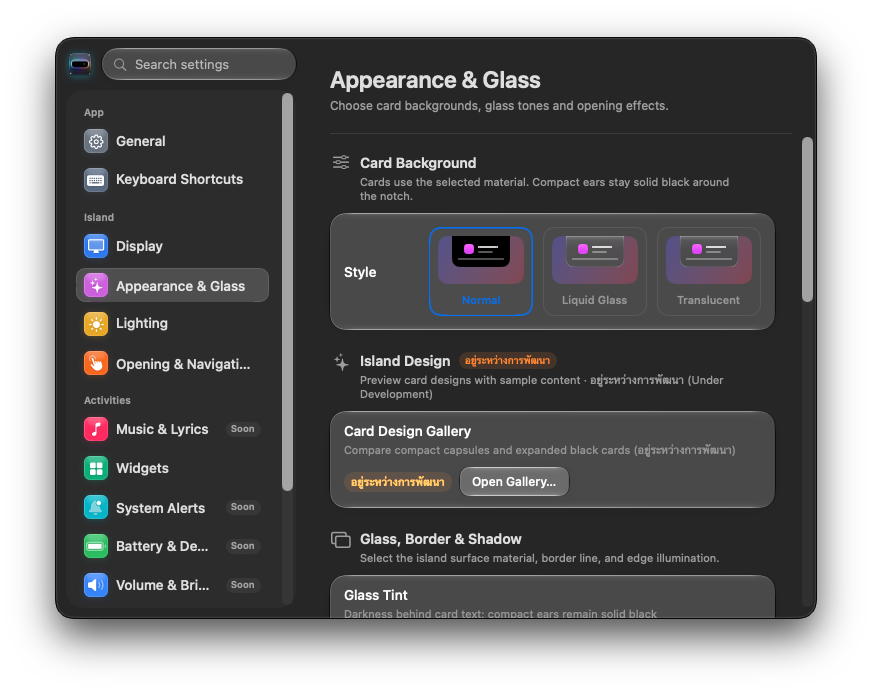
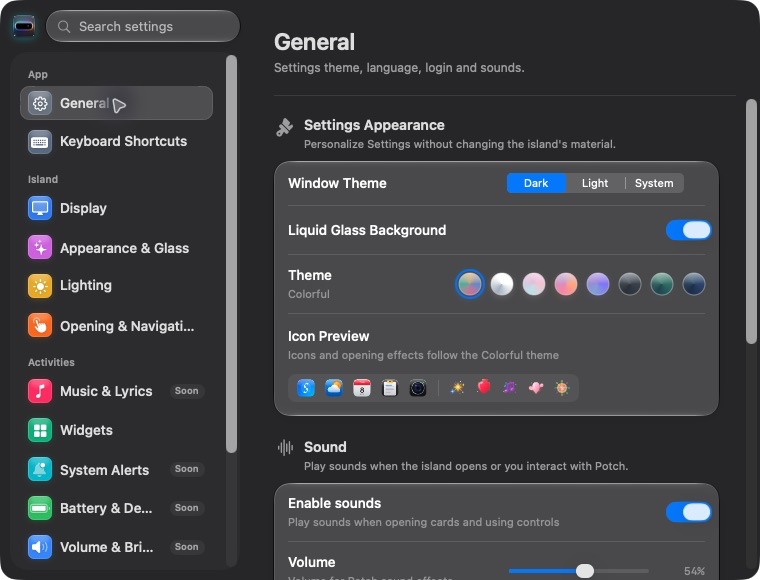
docs: replace showcase mockups with actual running app screenshots

diff --git a/README.md b/README.md
@@ -60,47 +60,49 @@ curl -fsSL https://raw.githubusercontent.com/izyouna/Potch.update/main/install.s
 
 ## 🖼 UI Showcase & Features
 
-### 🏝 1. Dynamic Notch & Mascot Companion ("Mochi")
-A sleek, obsidian island seamlessly hugging the physical MacBook display notch with fluid spring animations and an interactive mascot companion that looks and responds to your cursor in real time.
+These screenshots were captured directly from the running Potch app. The island is shown on an external display in floating mode; on a MacBook, it sits around the physical notch.
+
+### 🎵 1. Now Playing & Mascot Companion
+Your music, playback controls, and Mochi together in one compact island.
 
 <p align="center">
-  <img src="assets/potch_island_hero.png" alt="Potch Dynamic Notch & Companion" width="100%" />
+  <img src="assets/potch_island_hero.png" alt="Actual Potch app playing Just One More Drink -- Jazz Noir by Tom’s Jazz Lounge, with artwork, timeline, pause button, and Mochi" width="400" />
 </p>
 
-- **1px Overflow Edge Trick:** Perfectly conceals the physical boundary between display bezel and screen pixels.
-- **Concave Shoulders:** Elegant 12pt curved contours naturally blend the notch into the macOS menu bar.
-- **4 Dynamic Glow Modes:** Radiates real-time ambient lighting around the notch — Album Aura, Ambient White, Aurora Breathing, or Custom Hex Accent.
-- **Interactive Companion Mochi:** Adorable desk mascot with responsive eye-gaze tracking and custom outfits.
+*Captured during live playback of “Just One More Drink -- Jazz Noir” by Tom’s Jazz Lounge.*
+
+- **Live track information:** Album artwork, track title, artist, elapsed time, and remaining time from active playback.
+- **Playback controls:** Shuffle, previous track, play/pause, next track, and volume access.
+- **Mochi companion:** The mascot appears beside your music.
 
 ---
 
 ### 📱 2. Multi-Widget Ecosystem & Activity Cards
-Expand the island downwards with a single click or hover to reveal a suite of multi-purpose activity tools and playback controls in one unified liquid glass interface.
+Open Widgets to browse Potch’s tools from the island. The screenshot below shows the actual widget launcher, with Calendar and Weather visible and more tools available by scrolling.
 
 <p align="center">
-  <img src="assets/potch_widgets_expanded.png" alt="Potch Multi-Widget Ecosystem & Now Playing" width="100%" />
+  <img src="assets/potch_widgets_expanded.png" alt="Actual Potch Widgets launcher showing Calendar and Weather cards" width="440" />
 </p>
 
-- 🎵 **Now Playing & Lyrics:** High-fidelity album artwork, live 20-band FFT audio visualizer, scrub bar, and AirPlay output switcher for Apple Music and Spotify.
-- 📅 **Calendar & Schedule:** Full monthly overview with upcoming event timeline and instant calendar sync.
-- ☀ **Weather Forecast:** Atmospheric animations, hourly forecasts, and 5-day temperature range radar.
-- ⏱ **Focus Timer:** Minimalist Pomodoro and countdown timer with audible bell alerts.
-- 🪞 **Camera Mirror:** Front camera mirror with high-pass skin smoothing and screen rim light for low-light calls.
-- 🔋 **Battery & Devices:** Real-time battery status for your Mac, left/right AirPods, charging case, and wireless peripherals.
-- 📋 **Clipboard History:** Quick access to your last 20 copied clips with drag-and-drop instant paste.
+- 📅 **Calendar** and ☀ **Weather**
+- ⏱ **Timer** and 🪞 **Camera Mirror**
+- 🔋 **Battery & Devices** and 📋 **Clipboard History**
+- 🎶 **Song Recognition**, **Apps**, and **Activity**
 
 ---
 
 ### 🪟 3. Native Liquid Glass Settings
-Comprehensive settings panel spanning 12 distinct categories, engineered strictly with native macOS SwiftUI components and translucent Liquid Glass materials.
+Personalize Potch in its native macOS Settings window. This is the running app’s General page, showing its theme, glass background, icon preview, and sound controls.
 
 <p align="center">
-  <img src="assets/potch_settings.png" alt="Potch Settings Window" width="85%" />
+  <img src="assets/potch_settings.png" alt="Actual Potch General Settings window with dark theme, Liquid Glass background, eight color themes, icon preview, and sound controls" width="760" />
 </p>
 
 - **8 Glass Color Themes:** Colorful, Silver, Blush, Sunset, Indigo, Graphite, Emerald, and Midnight.
-- **Mascot Wardrobe:** Accessorize Mochi with custom hats, glasses, headphones, and seasonal outfits.
-- **Precision Lighting & Audio Controls:** Tailor glow speed, brightness, blur clarity, and 9 distinct UI sound events.
+- **Window appearance:** Dark, Light, or System, with a Liquid Glass background toggle.
+- **Sound & feedback:** Sound effects, volume, and trackpad feedback controls.
+
+Settings sections marked **Soon** are still under development.
 
 ---
 
